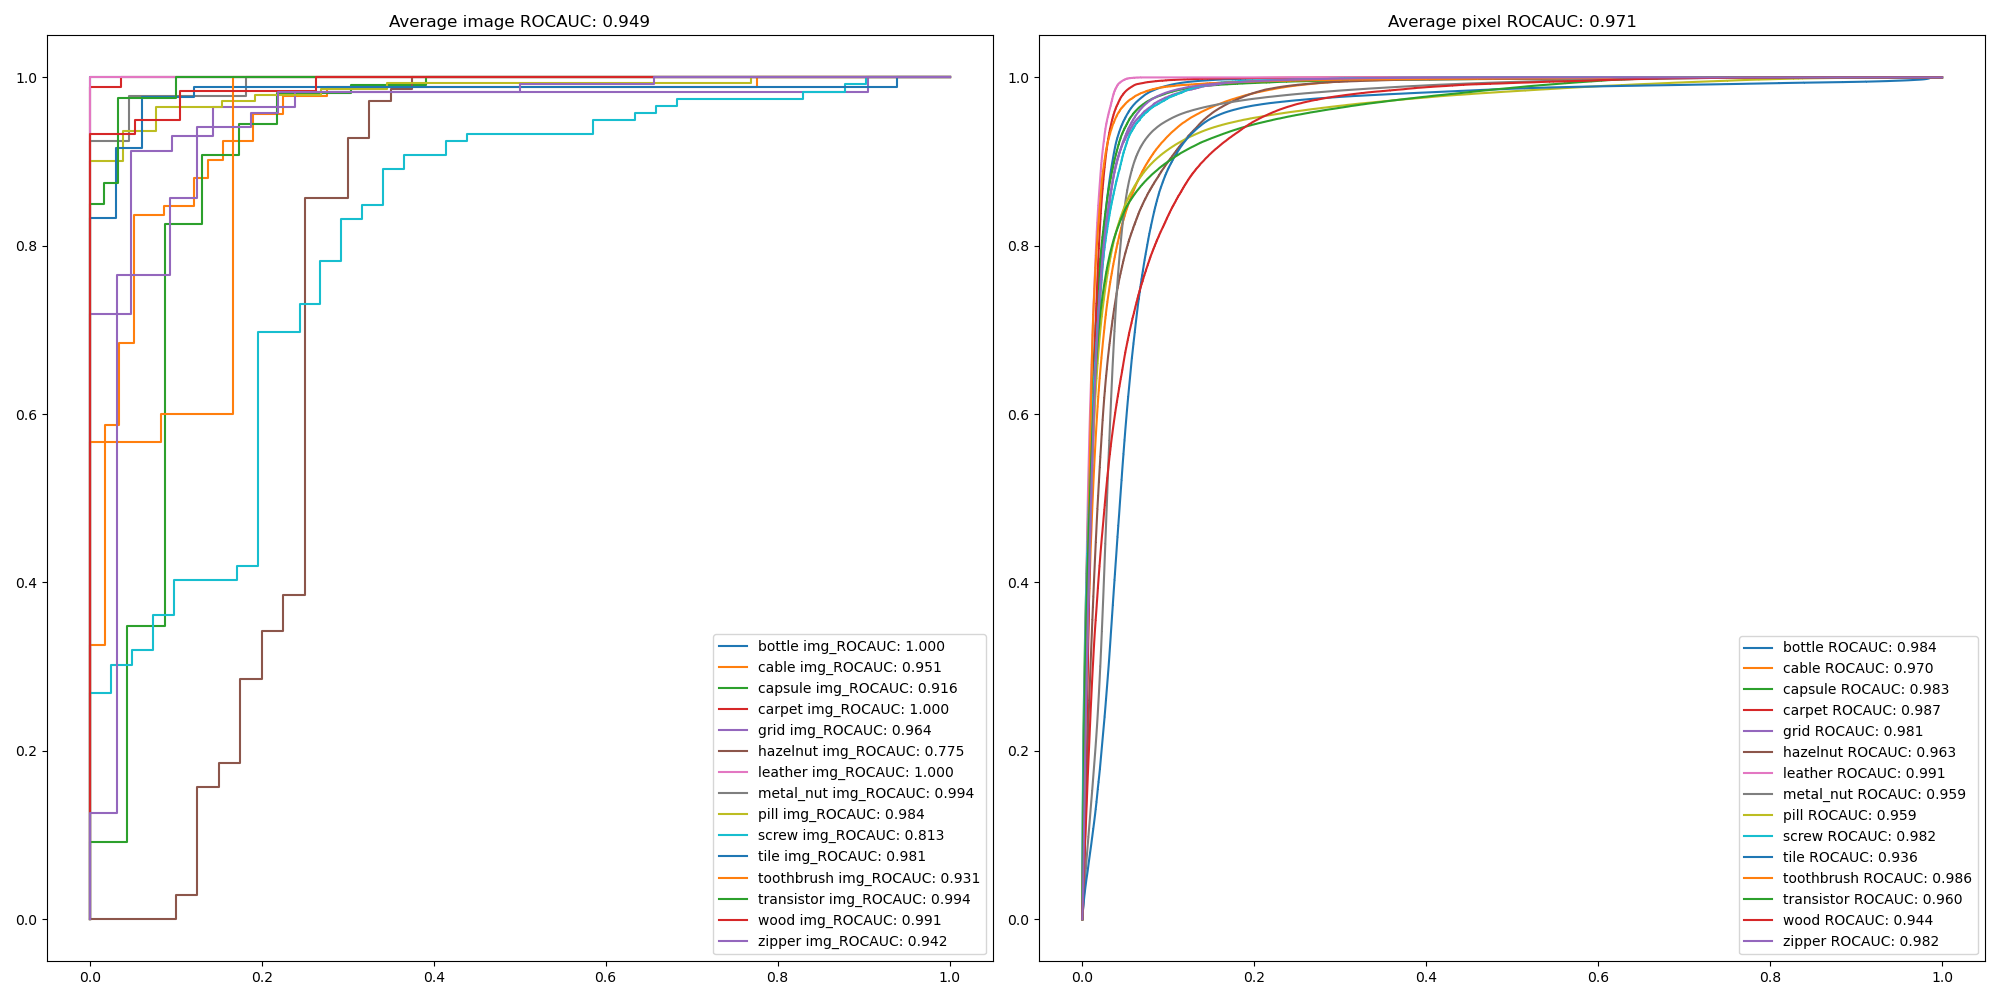
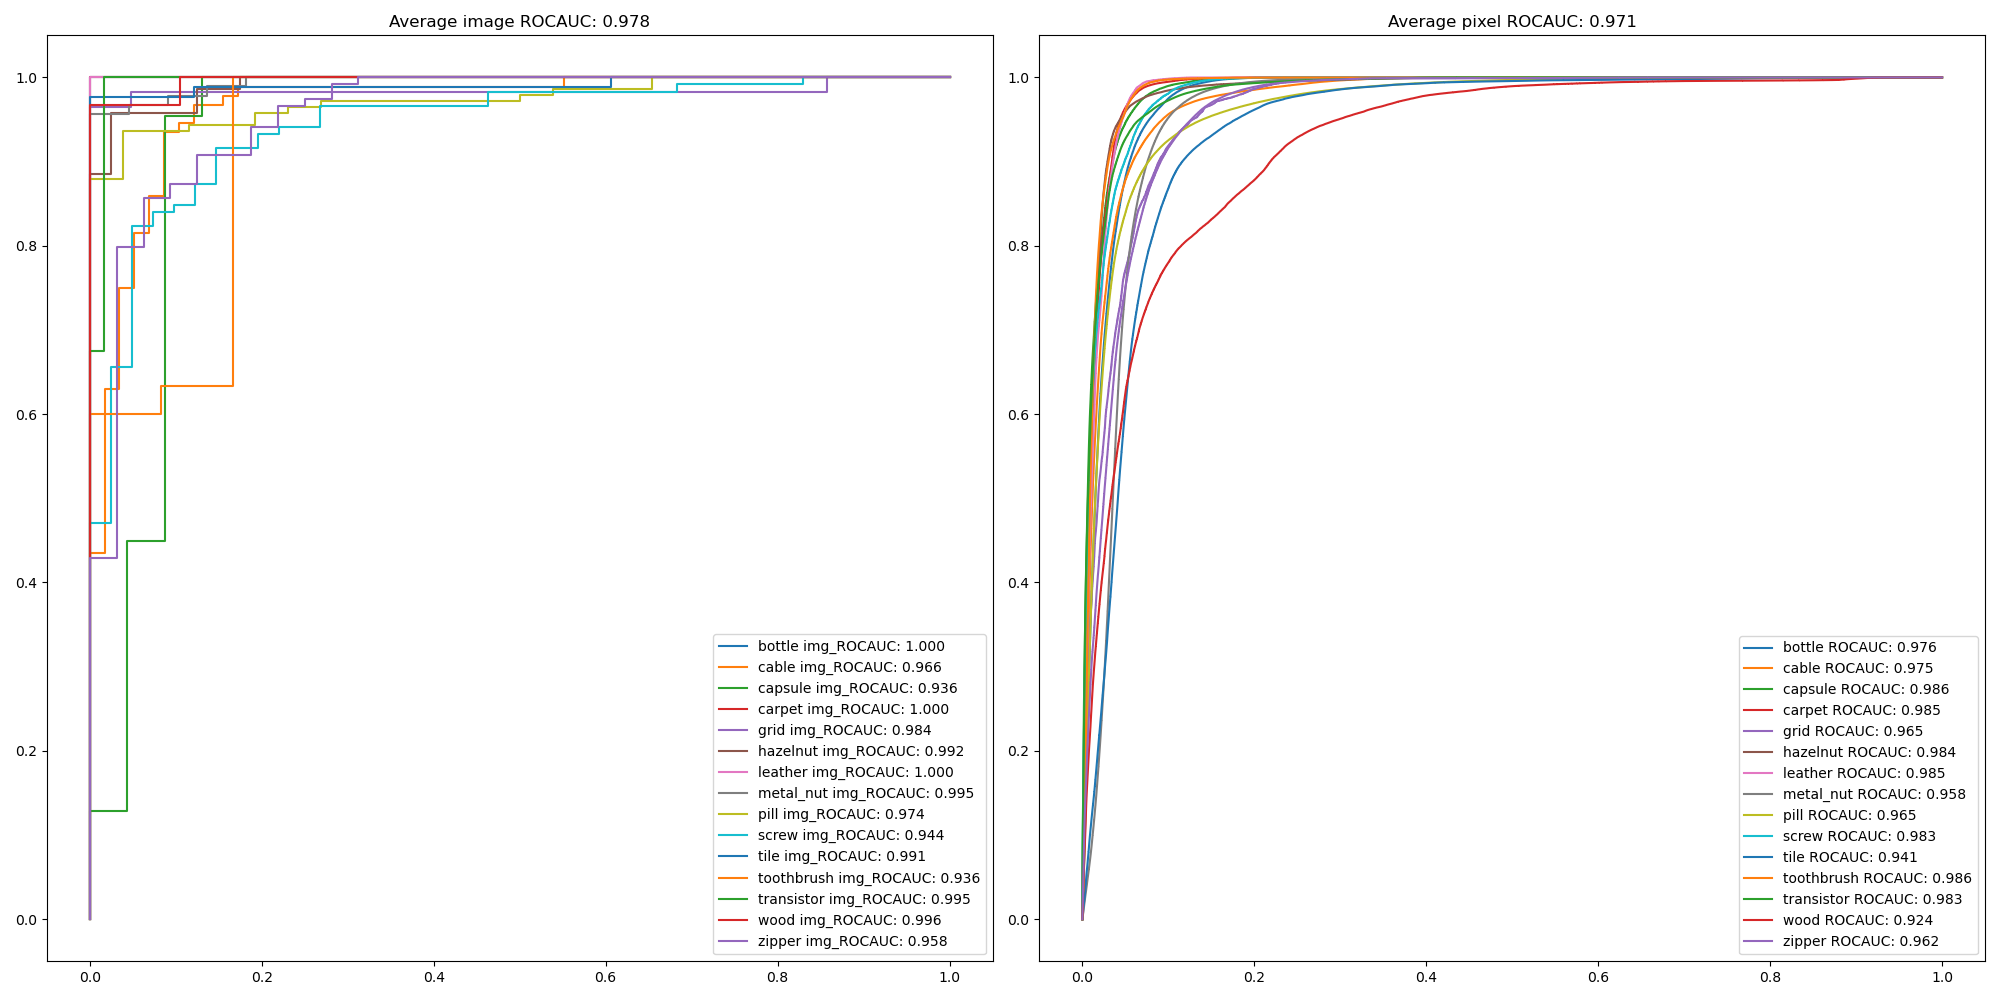
Update PaDiM-EfficientNetV2 scores and README.md

diff --git a/README.md b/README.md
@@ -1,10 +1,10 @@
-# PaDiM-EfficientNet_NS and PaDiM-EfficientNetV2
+# PaDiM-EfficientNetV2
 
-EfficentNet_NS outperforms both R18-Rd100 and WR50-Rd550 from original implementation on image-level ROCAUC significantly!!!
+Both PaDiM-EfficientNetV2 and PaDiM-EfficentNet_NS outperform PaDiM-WR50-Rd550 from original implementation on image-level ROCAUC significantly by over **2%** !!!
 
 ## Features
 
-* The current SOTA from EfficentNet family, EfficentNet_NS(Noisy Student) and EfficientNetV2, are used as the feature extractor
+* The current SOTA from EfficentNet family, EfficientNetV2 and EfficentNet_NS(Noisy Student), are used as the feature extractor
 * The cov_inv instead of cov is saved to speed up the calculation of mahalanobis distance
 * Optimize both torch and numpy methods to calculate mahalanobis distance
 * Save train params, mean and cov_inv, in hdf5 format instead of pickle in case of OOM issue when memory is limited
@@ -18,7 +18,7 @@ EfficentNet_NS outperforms both R18-Rd100 and WR50-Rd550 from original implement
   * sklearn
   * matplotlib
   * timm
-* EfficientNet_NS model is imported from pytorch-image-models and PaDiM-EfficientNetV2 model is imported from torchvision.models
+* Both EfficientNetV2 and EfficientNet_NS models are imported from timm (pytorch-image-models)
 
 ## Datasets
 
@@ -27,6 +27,7 @@ MVTec AD datasets : Download from [MVTec website](https://www.mvtec.com/company/
 ## Usage
 
 ```bash
+python main.py --data_path mvtec_anomaly_detection/ --save_path ./mvtec_result --arch efficientnetv2_m_in21ft1k --use_gpu
 python main.py --data_path mvtec_anomaly_detection/ --save_path ./mvtec_result --arch efficientnet_b7_ns --use_gpu
 ```
 
@@ -39,45 +40,45 @@ python main.py --data_path mvtec_anomaly_detection/ --save_path ./mvtec_result -
 |        MvTec        | R18-Rd100 |  WR50-Rd550  |   Effi-B7-NS   |    EffiV2-M    |
 | :-----------------: | :-------: | :-----------: | :-------------: | :-------------: |
 |       Carpet       |   0.984   |     0.999     |  **1.0**  |  **1.0**  |
-|        Grid        |   0.898   |     0.957     | **0.997** |      0.964      |
+|        Grid        |   0.898   |     0.957     | **0.997** |      0.984      |
 |       Leather       |   0.988   | **1.0** |  **1.0**  |  **1.0**  |
-|        Tile        |   0.959   |     0.974     | **0.991** |      0.981      |
-|        Wood        |   0.990   |     0.988     | **0.995** |      0.991      |
-| All texture classes |   0.964   |     0.984     | **0.997** |      0.987      |
+|        Tile        |   0.959   |     0.974     | **0.991** | **0.991** |
+|        Wood        |   0.990   |     0.988     |      0.995      | **0.996** |
+| All texture classes |   0.964   |     0.984     | **0.997** |      0.994      |
 |       Bottle       |   0.996   |     0.998     |  **1.0**  |  **1.0**  |
-|        Cable        |   0.855   |     0.922     | **0.961** |      0.951      |
-|       Capsule       |   0.870   |     0.915     |      0.913      | **0.916** |
-|      Hazelnut      |   0.841   |     0.933     | **0.960** |      0.775      |
-|      Metal nut      |   0.974   |     0.992     |      0.988      | **0.994** |
-|        Pill        |   0.869   |     0.944     |      0.974      | **0.984** |
-|        Screw        |   0.745   |     0.844     | **0.956** |      0.813      |
-|     Toothbrush     |   0.947   |     0.972     | **0.981** |      0.931      |
-|     Transistor     |   0.925   |     0.978     | **0.999** |      0.994      |
-|       Zipper       |   0.741   |     0.909     | **0.946** |      0.942      |
-| All object classes |   0.876   |     0.941     | **0.968** |      0.93      |
-|     All classes     |   0.905   |     0.955     | **0.977** |      0.949      |
+|        Cable        |   0.855   |     0.922     |      0.961      | **0.966** |
+|       Capsule       |   0.870   |     0.915     |      0.913      | **0.936** |
+|      Hazelnut      |   0.841   |     0.933     |      0.960      | **0.992** |
+|      Metal nut      |   0.974   |     0.992     |      0.988      | **0.995** |
+|        Pill        |   0.869   |     0.944     | **0.974** | **0.974** |
+|        Screw        |   0.745   |     0.844     | **0.956** |      0.944      |
+|     Toothbrush     |   0.947   |     0.972     | **0.981** |      0.936      |
+|     Transistor     |   0.925   |     0.978     | **0.999** |      0.995      |
+|       Zipper       |   0.741   |     0.909     |      0.946      | **0.958** |
+| All object classes |   0.876   |     0.941     |      0.968      | **0.970** |
+|     All classes     |   0.905   |     0.955     |      0.977      | **0.978** |
 
 * Pixel-level anomaly detection accuracy (ROCAUC)
 
 |        MvTec        |    R18-Rd100    |   WR50-Rd550   |   Effi-B7-NS   |    EffiV2-M    |
 | :-----------------: | :-------------: | :-------------: | :-------------: | :-------------: |
-|       Carpet       |      0.988      | **0.990** |      0.984      |      0.987      |
-|        Grid        |      0.936      |      0.965      |      0.967      | **0.981** |
-|       Leather       |      0.990      |      0.989      |      0.986      | **0.991** |
-|        Tile        |      0.917      | **0.939** |      0.923      |      0.936      |
-|        Wood        |      0.940      |      0.941      |      0.928      | **0.944** |
-| All texture classes |      0.953      |      0.965      |      0.958      | **0.968** |
-|       Bottle       |      0.981      |      0.982      |      0.971      | **0.984** |
-|        Cable        |      0.949      |      0.968      | **0.973** |      0.970      |
-|       Capsule       |      0.982      | **0.986** |      0.979      |      0.983      |
-|      Hazelnut      | **0.979** | **0.979** |      0.977      |      0.963      |
-|      Metal nut      |      0.967      | **0.971** |      0.954      |      0.959      |
-|        Pill        |      0.946      | **0.961** |      0.944      |      0.959      |
-|        Screw        |      0.972      |      0.983      | **0.989** |      0.982      |
+|       Carpet       |      0.988      | **0.990** |      0.984      |      0.985      |
+|        Grid        |      0.936      |      0.965      | **0.967** |      0.965      |
+|       Leather       | **0.990** |      0.989      |      0.986      |      0.985      |
+|        Tile        |      0.917      |      0.939      |      0.923      | **0.941** |
+|        Wood        |      0.940      | **0.941** |      0.928      |      0.924      |
+| All texture classes |      0.953      | **0.965** |      0.958      |      0.96      |
+|       Bottle       |      0.981      | **0.982** |      0.971      |      0.976      |
+|        Cable        |      0.949      |      0.968      |      0.973      | **0.975** |
+|       Capsule       |      0.982      | **0.986** |      0.979      | **0.986** |
+|      Hazelnut      |      0.979      |      0.979      |      0.977      | **0.984** |
+|      Metal nut      |      0.967      | **0.971** |      0.954      |      0.958      |
+|        Pill        |      0.946      |      0.961      |      0.944      | **0.965** |
+|        Screw        |      0.972      |      0.983      | **0.989** |      0.983      |
 |     Toothbrush     |      0.986      | **0.987** |      0.979      |      0.986      |
-|     Transistor     |      0.968      |      0.975      | **0.981** |      0.960      |
-|       Zipper       |      0.976      | **0.984** |      0.968      |      0.982      |
-| All object classes |      0.971      | **0.978** |      0.972      |      0.973      |
+|     Transistor     |      0.968      |      0.975      |      0.981      | **0.983** |
+|       Zipper       |      0.976      | **0.984** |      0.968      |      0.962      |
+| All object classes |      0.971      | **0.978** |      0.972      |      0.976      |
 |     All classes     |      0.965      | **0.973** |      0.967      |      0.971      |
 
 ### ROC Curve
